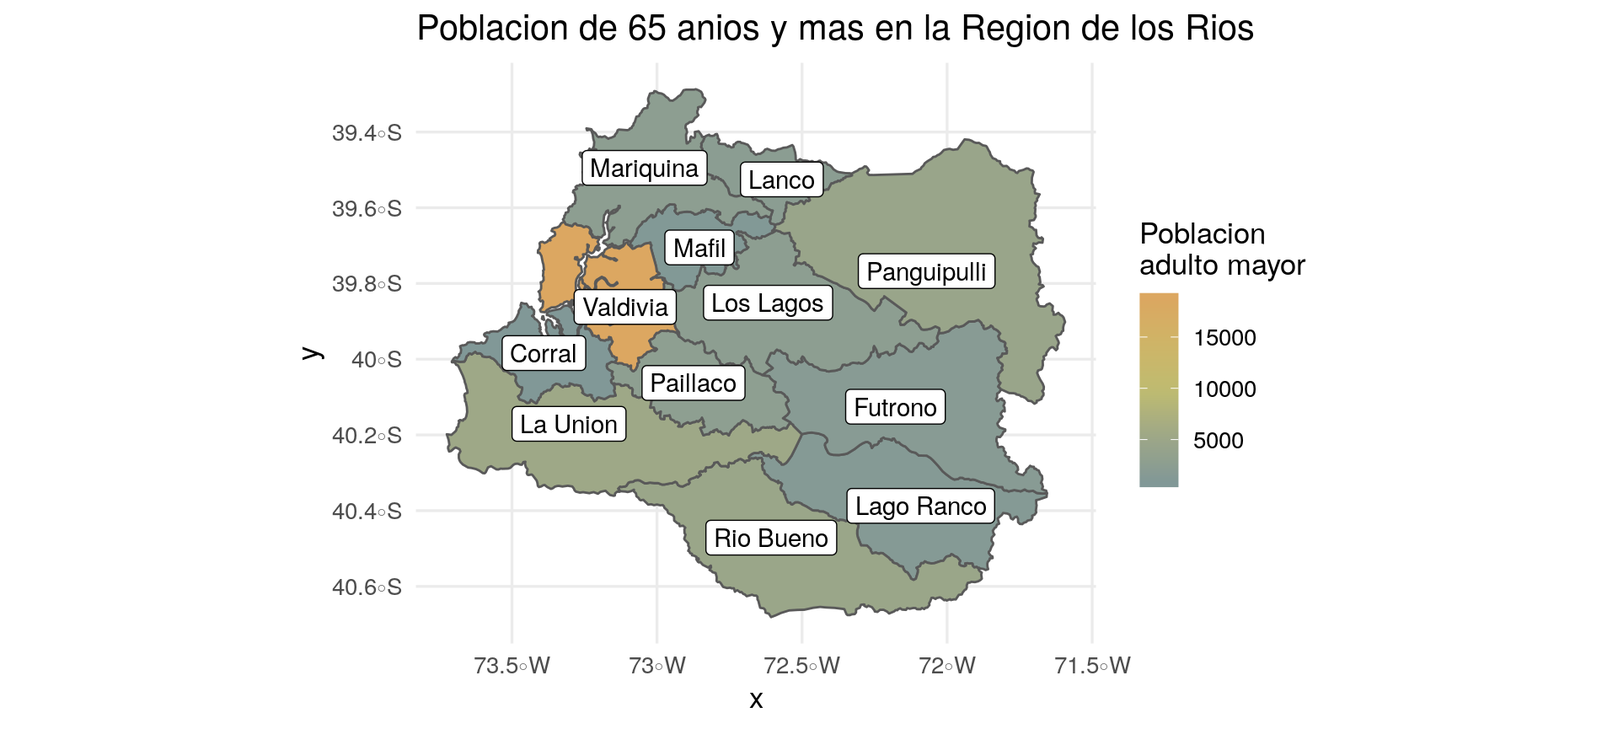
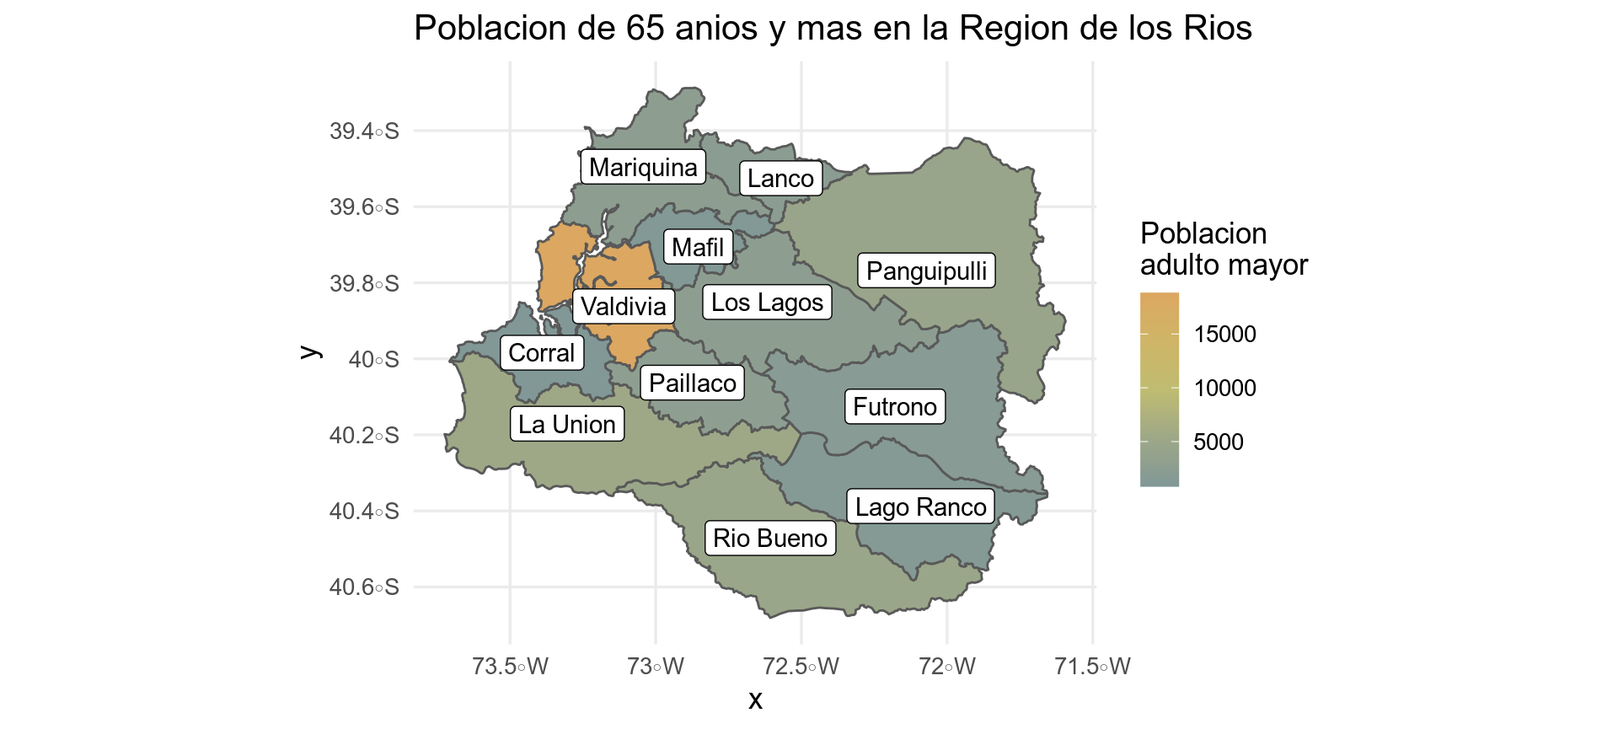
adds geometry = ... in vignette for newer ggplot2 versions

diff --git a/docs/articles/basic-usage.html b/docs/articles/basic-usage.html
@@ -31,7 +31,7 @@
       </button>
       <span class="navbar-brand">
         <a class="navbar-link" href="../index.html">chilemapas</a>
-        <span class="version label label-default" data-toggle="tooltip" data-placement="bottom" title="Released version">0.1.4</span>
+        <span class="version label label-default" data-toggle="tooltip" data-placement="bottom" title="Released version">0.1.6</span>
       </span>
     </div>
 
@@ -75,7 +75,7 @@
       <h1>Uso basico del paquete chilemapas</h1>
                         <h4 class="author">Mauricio Vargas S.</h4>
             
-            <h4 class="date">2020-01-25</h4>
+            <h4 class="date">2020-03-22</h4>
       
       
       <div class="hidden name"><code>basic-usage.Rmd</code></div>
@@ -144,12 +144,12 @@
 <a class="sourceLine" id="cb2-14" data-line-number="14"><span class="st">      </span><span class="kw"><a href="https://dplyr.tidyverse.org/reference/distinct.html">distinct</a></span>()</a>
 <a class="sourceLine" id="cb2-15" data-line-number="15">  ) <span class="op">%&gt;%</span><span class="st"> </span></a>
 <a class="sourceLine" id="cb2-16" data-line-number="16"><span class="st">  </span><span class="kw"><a href="https://dplyr.tidyverse.org/reference/join.html">left_join</a></span>(poblacion_adulto_mayor_provincias)</a>
-<a class="sourceLine" id="cb2-17" data-line-number="17"><span class="co">#&gt; Joining, by = "codigo_provincia"Joining, by = "codigo_provincia"Joining, by =</span></a>
-<a class="sourceLine" id="cb2-18" data-line-number="18"><span class="co">#&gt; "codigo_provincia"</span></a>
+<a class="sourceLine" id="cb2-17" data-line-number="17"><span class="co">#&gt; Joining, by = "codigo_provincia"</span></a>
+<a class="sourceLine" id="cb2-18" data-line-number="18"><span class="co">#&gt; Joining, by = "codigo_provincia"</span></a>
 <a class="sourceLine" id="cb2-19" data-line-number="19"></a>
 <a class="sourceLine" id="cb2-20" data-line-number="20"><span class="kw"><a href="https://ggplot2.tidyverse.org/reference/ggplot.html">ggplot</a></span>(provincias_los_rios) <span class="op">+</span><span class="st"> </span></a>
-<a class="sourceLine" id="cb2-21" data-line-number="21"><span class="st">  </span><span class="kw"><a href="https://ggplot2.tidyverse.org/reference/ggsf.html">geom_sf</a></span>(<span class="kw"><a href="https://ggplot2.tidyverse.org/reference/aes.html">aes</a></span>(<span class="dt">fill =</span> pob_adulto_mayor)) <span class="op">+</span></a>
-<a class="sourceLine" id="cb2-22" data-line-number="22"><span class="st">  </span><span class="kw"><a href="https://ggplot2.tidyverse.org/reference/ggsf.html">geom_sf_label</a></span>(<span class="kw"><a href="https://ggplot2.tidyverse.org/reference/aes.html">aes</a></span>(<span class="dt">label =</span> nombre_provincia)) <span class="op">+</span></a>
+<a class="sourceLine" id="cb2-21" data-line-number="21"><span class="st">  </span><span class="kw"><a href="https://ggplot2.tidyverse.org/reference/ggsf.html">geom_sf</a></span>(<span class="kw"><a href="https://ggplot2.tidyverse.org/reference/aes.html">aes</a></span>(<span class="dt">fill =</span> pob_adulto_mayor, <span class="dt">geometry =</span> geometry)) <span class="op">+</span></a>
+<a class="sourceLine" id="cb2-22" data-line-number="22"><span class="st">  </span><span class="kw"><a href="https://ggplot2.tidyverse.org/reference/ggsf.html">geom_sf_label</a></span>(<span class="kw"><a href="https://ggplot2.tidyverse.org/reference/aes.html">aes</a></span>(<span class="dt">label =</span> nombre_provincia, <span class="dt">geometry =</span> geometry)) <span class="op">+</span></a>
 <a class="sourceLine" id="cb2-23" data-line-number="23"><span class="st">  </span><span class="kw"><a href="https://ggplot2.tidyverse.org/reference/scale_gradient.html">scale_fill_gradientn</a></span>(<span class="dt">colours =</span> <span class="kw"><a href="https://rdrr.io/r/base/rev.html">rev</a></span>(paleta), <span class="dt">name =</span> <span class="st">"Poblacion</span><span class="ch">\n</span><span class="st">adulto mayor"</span>) <span class="op">+</span></a>
 <a class="sourceLine" id="cb2-24" data-line-number="24"><span class="st">  </span><span class="kw"><a href="https://ggplot2.tidyverse.org/reference/labs.html">labs</a></span>(<span class="dt">title =</span> <span class="st">"Poblacion de 65 anios y mas en la Region de los Rios"</span>) <span class="op">+</span></a>
 <a class="sourceLine" id="cb2-25" data-line-number="25"><span class="st">  </span><span class="kw"><a href="https://ggplot2.tidyverse.org/reference/ggtheme.html">theme_minimal</a></span>(<span class="dt">base_size =</span> <span class="dv">13</span>)</a></code></pre></div>
@@ -174,14 +174,15 @@
 <a class="sourceLine" id="cb3-14" data-line-number="14"><span class="st">      </span><span class="kw"><a href="https://dplyr.tidyverse.org/reference/distinct.html">distinct</a></span>()</a>
 <a class="sourceLine" id="cb3-15" data-line-number="15">  ) <span class="op">%&gt;%</span><span class="st"> </span></a>
 <a class="sourceLine" id="cb3-16" data-line-number="16"><span class="st">  </span><span class="kw"><a href="https://dplyr.tidyverse.org/reference/join.html">left_join</a></span>(poblacion_adulto_mayor_regiones)</a>
-<a class="sourceLine" id="cb3-17" data-line-number="17"><span class="co">#&gt; Joining, by = "codigo_region"Joining, by = "codigo_region"</span></a>
-<a class="sourceLine" id="cb3-18" data-line-number="18"></a>
-<a class="sourceLine" id="cb3-19" data-line-number="19"><span class="kw"><a href="https://ggplot2.tidyverse.org/reference/ggplot.html">ggplot</a></span>(region_los_rios) <span class="op">+</span><span class="st"> </span></a>
-<a class="sourceLine" id="cb3-20" data-line-number="20"><span class="st">  </span><span class="kw"><a href="https://ggplot2.tidyverse.org/reference/ggsf.html">geom_sf</a></span>(<span class="kw"><a href="https://ggplot2.tidyverse.org/reference/aes.html">aes</a></span>(<span class="dt">fill =</span> pob_adulto_mayor)) <span class="op">+</span></a>
-<a class="sourceLine" id="cb3-21" data-line-number="21"><span class="st">  </span><span class="kw"><a href="https://ggplot2.tidyverse.org/reference/ggsf.html">geom_sf_label</a></span>(<span class="kw"><a href="https://ggplot2.tidyverse.org/reference/aes.html">aes</a></span>(<span class="dt">label =</span> nombre_region)) <span class="op">+</span></a>
-<a class="sourceLine" id="cb3-22" data-line-number="22"><span class="st">  </span><span class="kw"><a href="https://ggplot2.tidyverse.org/reference/scale_gradient.html">scale_fill_gradientn</a></span>(<span class="dt">colours =</span> <span class="kw"><a href="https://rdrr.io/r/base/rev.html">rev</a></span>(paleta), <span class="dt">name =</span> <span class="st">"Poblacion</span><span class="ch">\n</span><span class="st">adulto mayor"</span>) <span class="op">+</span></a>
-<a class="sourceLine" id="cb3-23" data-line-number="23"><span class="st">  </span><span class="kw"><a href="https://ggplot2.tidyverse.org/reference/labs.html">labs</a></span>(<span class="dt">title =</span> <span class="st">"Poblacion de 65 anios y mas en la Region de los Rios"</span>) <span class="op">+</span></a>
-<a class="sourceLine" id="cb3-24" data-line-number="24"><span class="st">  </span><span class="kw"><a href="https://ggplot2.tidyverse.org/reference/ggtheme.html">theme_minimal</a></span>(<span class="dt">base_size =</span> <span class="dv">13</span>)</a></code></pre></div>
+<a class="sourceLine" id="cb3-17" data-line-number="17"><span class="co">#&gt; Joining, by = "codigo_region"</span></a>
+<a class="sourceLine" id="cb3-18" data-line-number="18"><span class="co">#&gt; Joining, by = "codigo_region"</span></a>
+<a class="sourceLine" id="cb3-19" data-line-number="19"></a>
+<a class="sourceLine" id="cb3-20" data-line-number="20"><span class="kw"><a href="https://ggplot2.tidyverse.org/reference/ggplot.html">ggplot</a></span>(region_los_rios) <span class="op">+</span><span class="st"> </span></a>
+<a class="sourceLine" id="cb3-21" data-line-number="21"><span class="st">  </span><span class="kw"><a href="https://ggplot2.tidyverse.org/reference/ggsf.html">geom_sf</a></span>(<span class="kw"><a href="https://ggplot2.tidyverse.org/reference/aes.html">aes</a></span>(<span class="dt">fill =</span> pob_adulto_mayor, <span class="dt">geometry =</span> geometry)) <span class="op">+</span></a>
+<a class="sourceLine" id="cb3-22" data-line-number="22"><span class="st">  </span><span class="kw"><a href="https://ggplot2.tidyverse.org/reference/ggsf.html">geom_sf_label</a></span>(<span class="kw"><a href="https://ggplot2.tidyverse.org/reference/aes.html">aes</a></span>(<span class="dt">label =</span> nombre_region, <span class="dt">geometry =</span> geometry)) <span class="op">+</span></a>
+<a class="sourceLine" id="cb3-23" data-line-number="23"><span class="st">  </span><span class="kw"><a href="https://ggplot2.tidyverse.org/reference/scale_gradient.html">scale_fill_gradientn</a></span>(<span class="dt">colours =</span> <span class="kw"><a href="https://rdrr.io/r/base/rev.html">rev</a></span>(paleta), <span class="dt">name =</span> <span class="st">"Poblacion</span><span class="ch">\n</span><span class="st">adulto mayor"</span>) <span class="op">+</span></a>
+<a class="sourceLine" id="cb3-24" data-line-number="24"><span class="st">  </span><span class="kw"><a href="https://ggplot2.tidyverse.org/reference/labs.html">labs</a></span>(<span class="dt">title =</span> <span class="st">"Poblacion de 65 anios y mas en la Region de los Rios"</span>) <span class="op">+</span></a>
+<a class="sourceLine" id="cb3-25" data-line-number="25"><span class="st">  </span><span class="kw"><a href="https://ggplot2.tidyverse.org/reference/ggtheme.html">theme_minimal</a></span>(<span class="dt">base_size =</span> <span class="dv">13</span>)</a></code></pre></div>
 <p><img src="basic-usage_files/figure-html/unnamed-chunk-3-1.png" width="960"></p>
 </div>
 <div id="graficar-zonas" class="section level2">
@@ -202,7 +203,7 @@
 <a class="sourceLine" id="cb4-12" data-line-number="12">paleta &lt;-<span class="st"> </span><span class="kw"><a href="https://rdrr.io/r/base/c.html">c</a></span>(<span class="st">"#628ca5"</span>, <span class="st">"#dca761"</span>)</a>
 <a class="sourceLine" id="cb4-13" data-line-number="13"></a>
 <a class="sourceLine" id="cb4-14" data-line-number="14"><span class="kw"><a href="https://ggplot2.tidyverse.org/reference/ggplot.html">ggplot</a></span>() <span class="op">+</span><span class="st"> </span></a>
-<a class="sourceLine" id="cb4-15" data-line-number="15"><span class="st">  </span><span class="kw"><a href="https://ggplot2.tidyverse.org/reference/ggsf.html">geom_sf</a></span>(<span class="dt">data =</span> zonas_valdivia, <span class="kw"><a href="https://ggplot2.tidyverse.org/reference/aes.html">aes</a></span>(<span class="dt">fill =</span> poblacion)) <span class="op">+</span></a>
+<a class="sourceLine" id="cb4-15" data-line-number="15"><span class="st">  </span><span class="kw"><a href="https://ggplot2.tidyverse.org/reference/ggsf.html">geom_sf</a></span>(<span class="dt">data =</span> zonas_valdivia, <span class="kw"><a href="https://ggplot2.tidyverse.org/reference/aes.html">aes</a></span>(<span class="dt">fill =</span> poblacion, <span class="dt">geometry =</span> geometry)) <span class="op">+</span></a>
 <a class="sourceLine" id="cb4-16" data-line-number="16"><span class="st">  </span><span class="kw"><a href="https://ggplot2.tidyverse.org/reference/ggsf.html">geom_sf</a></span>(<span class="dt">data =</span> <span class="kw"><a href="https://dplyr.tidyverse.org/reference/filter.html">filter</a></span>(comunas_los_rios, codigo_comuna <span class="op">==</span><span class="st"> "14101"</span>),</a>
 <a class="sourceLine" id="cb4-17" data-line-number="17">          <span class="dt">colour =</span> <span class="st">"#2A2B75"</span>, <span class="dt">fill =</span> <span class="ot">NA</span>) <span class="op">+</span></a>
 <a class="sourceLine" id="cb4-18" data-line-number="18"><span class="st">  </span><span class="kw"><a href="https://ggplot2.tidyverse.org/reference/lims.html">ylim</a></span>(<span class="op">-</span><span class="fl">39.9</span>, <span class="fl">-39.78</span>) <span class="op">+</span></a>

diff --git a/docs/reference/generar_circunscripciones.html b/docs/reference/generar_circunscripciones.html
@@ -70,7 +70,7 @@ del mapa comunal para no recargar el volumen de datos del paquete." />
       </button>
       <span class="navbar-brand">
         <a class="navbar-link" href="../index.html">chilemapas</a>
-        <span class="version label label-default" data-toggle="tooltip" data-placement="bottom" title="Released version">0.1.4</span>
+        <span class="version label label-default" data-toggle="tooltip" data-placement="bottom" title="Released version">0.1.6</span>
       </span>
     </div>
 
@@ -139,24 +139,24 @@ del mapa comunal para no recargar el volumen de datos del paquete.</p>
     <p>Un objeto de clase sf y data.frame.</p>
 
     <h2 class="hasAnchor" id="examples"><a class="anchor" href="#examples"></a>Examples</h2>
-    <pre class="examples"><div class='input'><span class='fu'>generar_circunscripciones</span>()</div><div class='output co'>#&gt; <span class='message'>Joining, by = "codigo_comuna"</span></div><div class='output co'>#&gt; <span class='message'>Joining, by = "codigo_circunscripcion"</span></div><div class='output co'>#&gt; Simple feature collection with 15 features and 2 fields
-#&gt; geometry type:  MULTIPOLYGON
-#&gt; dimension:      XY
-#&gt; bbox:           xmin: -109.4499 ymin: -56.52511 xmax: -66.41617 ymax: -17.49778
-#&gt; epsg (SRID):    NA
-#&gt; proj4string:    +proj=longlat +ellps=GRS80 +no_defs
-#&gt; First 10 features:
-#&gt;    codigo_circunscripcion codigo_region                       geometry
-#&gt; 1                      02            01 MULTIPOLYGON (((-68.86081 -...
-#&gt; 2                      03            02 MULTIPOLYGON (((-68.98863 -...
-#&gt; 3                      04            03 MULTIPOLYGON (((-70.68641 -...
-#&gt; 4                      05            04 MULTIPOLYGON (((-71.66962 -...
-#&gt; 5                      06            05 MULTIPOLYGON (((-71.67929 -...
-#&gt; 6                      08            06 MULTIPOLYGON (((-71.1344 -3...
-#&gt; 7                      09            07 MULTIPOLYGON (((-72.1032 -3...
-#&gt; 8                      11            09 MULTIPOLYGON (((-73.35579 -...
-#&gt; 9                      13            10 MULTIPOLYGON (((-73.6175 -4...
-#&gt; 10                     14            11 MULTIPOLYGON (((-74.34857 -...</div></pre>
+    <pre class="examples"><div class='input'><span class='fu'>generar_circunscripciones</span>()</div><div class='output co'>#&gt; <span class='message'>Joining, by = "codigo_circunscripcion"</span></div><div class='output co'>#&gt; <span style='color: #555555;'># A tibble: 15 x 3</span><span>
+#&gt;    codigo_circunscrip…                                    geometry codigo_region
+#&gt;    </span><span style='color: #555555;font-style: italic;'>&lt;chr&gt;</span><span>                                        </span><span style='color: #555555;font-style: italic;'>&lt;MULTIPOLYGON [°]&gt;</span><span> </span><span style='color: #555555;font-style: italic;'>&lt;chr&gt;</span><span>        
+#&gt; </span><span style='color: #555555;'> 1</span><span> 02                  (((-69.93023 -21.4246, -69.93211 -21.42485… 01           
+#&gt; </span><span style='color: #555555;'> 2</span><span> 03                  (((-70.60654 -23.43054, -70.60175 -23.4351… 02           
+#&gt; </span><span style='color: #555555;'> 3</span><span> 04                  (((-68.36698 -26.79685, -68.36379 -26.8010… 03           
+#&gt; </span><span style='color: #555555;'> 4</span><span> 05                  (((-71.28791 -29.9416, -71.28132 -29.93136… 04           
+#&gt; </span><span style='color: #555555;'> 5</span><span> 06                  (((-71.70008 -33.1555, -71.71085 -33.14618… 05           
+#&gt; </span><span style='color: #555555;'> 6</span><span> 08                  (((-70.91453 -34.14454, -70.91686 -34.1409… 06           
+#&gt; </span><span style='color: #555555;'> 7</span><span> 09                  (((-72.61881 -35.56136, -72.61272 -35.5529… 07           
+#&gt; </span><span style='color: #555555;'> 8</span><span> 11                  (((-73.35579 -38.73982, -73.35826 -38.7262… 09           
+#&gt; </span><span style='color: #555555;'> 9</span><span> 13                  (((-72.99 -41.55301, -72.98086 -41.55318, … 10           
+#&gt; </span><span style='color: #555555;'>10</span><span> 14                  (((-72.06159 -44.83968, -72.06635 -44.8431… 11           
+#&gt; </span><span style='color: #555555;'>11</span><span> 15                  (((-72.1423 -54.4747, -72.1399 -54.47724, … 12           
+#&gt; </span><span style='color: #555555;'>12</span><span> 07                  (((-70.37256 -33.10578, -70.36695 -33.1070… 13           
+#&gt; </span><span style='color: #555555;'>13</span><span> 12                  (((-73.2668 -39.88605, -73.26215 -39.88671… 14           
+#&gt; </span><span style='color: #555555;'>14</span><span> 01                  (((-70.35079 -18.8362, -70.34977 -18.83428… 15           
+#&gt; </span><span style='color: #555555;'>15</span><span> 10                  (((-73.05136 -36.85569, -73.06061 -36.8389… 16           </div></span></pre>
   </div>
   <div class="col-md-3 hidden-xs hidden-sm" id="sidebar">
     <h2>Contents</h2>

diff --git a/docs/reference/generar_distritos.html b/docs/reference/generar_distritos.html
@@ -70,7 +70,7 @@ del mapa comunal para no recargar el volumen de datos del paquete." />
       </button>
       <span class="navbar-brand">
         <a class="navbar-link" href="../index.html">chilemapas</a>
-        <span class="version label label-default" data-toggle="tooltip" data-placement="bottom" title="Released version">0.1.4</span>
+        <span class="version label label-default" data-toggle="tooltip" data-placement="bottom" title="Released version">0.1.6</span>
       </span>
     </div>
 
@@ -139,24 +139,20 @@ del mapa comunal para no recargar el volumen de datos del paquete.</p>
     <p>Un objeto de clase sf y data.frame.</p>
 
     <h2 class="hasAnchor" id="examples"><a class="anchor" href="#examples"></a>Examples</h2>
-    <pre class="examples"><div class='input'><span class='fu'>generar_distritos</span>()</div><div class='output co'>#&gt; <span class='message'>Joining, by = "codigo_comuna"</span></div><div class='output co'>#&gt; <span class='message'>Joining, by = "codigo_distrito"</span></div><div class='output co'>#&gt; Simple feature collection with 28 features and 2 fields
-#&gt; geometry type:  MULTIPOLYGON
-#&gt; dimension:      XY
-#&gt; bbox:           xmin: -109.4499 ymin: -56.52511 xmax: -66.41617 ymax: -17.49778
-#&gt; epsg (SRID):    NA
-#&gt; proj4string:    +proj=longlat +ellps=GRS80 +no_defs
-#&gt; First 10 features:
-#&gt;    codigo_distrito codigo_region                       geometry
-#&gt; 1               02            01 MULTIPOLYGON (((-68.86081 -...
-#&gt; 2               03            02 MULTIPOLYGON (((-68.98863 -...
-#&gt; 3               04            03 MULTIPOLYGON (((-70.68641 -...
-#&gt; 4               05            04 MULTIPOLYGON (((-71.66962 -...
-#&gt; 5               07            05 MULTIPOLYGON (((-71.67929 -...
-#&gt; 6               06            05 MULTIPOLYGON (((-71.01308 -...
-#&gt; 7               16            06 MULTIPOLYGON (((-71.1344 -3...
-#&gt; 8               15            06 MULTIPOLYGON (((-71.06711 -...
-#&gt; 9               18            07 MULTIPOLYGON (((-72.1032 -3...
-#&gt; 10              17            07 MULTIPOLYGON (((-72.10298 -...</div></pre>
+    <pre class="examples"><div class='input'><span class='fu'>generar_distritos</span>()</div><div class='output co'>#&gt; <span class='message'>Joining, by = "codigo_distrito"</span></div><div class='output co'>#&gt; <span style='color: #555555;'># A tibble: 28 x 3</span><span>
+#&gt;    codigo_distrito                                        geometry codigo_region
+#&gt;    </span><span style='color: #555555;font-style: italic;'>&lt;chr&gt;</span><span>                                        </span><span style='color: #555555;font-style: italic;'>&lt;MULTIPOLYGON [°]&gt;</span><span> </span><span style='color: #555555;font-style: italic;'>&lt;chr&gt;</span><span>        
+#&gt; </span><span style='color: #555555;'> 1</span><span> 02              (((-69.93023 -21.4246, -69.93211 -21.42485, -6… 01           
+#&gt; </span><span style='color: #555555;'> 2</span><span> 03              (((-70.60654 -23.43054, -70.60175 -23.43515, -… 02           
+#&gt; </span><span style='color: #555555;'> 3</span><span> 04              (((-68.36698 -26.79685, -68.36379 -26.80107, -… 03           
+#&gt; </span><span style='color: #555555;'> 4</span><span> 05              (((-71.28791 -29.9416, -71.28132 -29.93136, -7… 04           
+#&gt; </span><span style='color: #555555;'> 5</span><span> 07              (((-71.49302 -33.10398, -71.48609 -33.10908, -… 05           
+#&gt; </span><span style='color: #555555;'> 6</span><span> 06              (((-71.49074 -32.77034, -71.48661 -32.76287, -… 05           
+#&gt; </span><span style='color: #555555;'> 7</span><span> 15              (((-70.91453 -34.14454, -70.91686 -34.14091, -… 06           
+#&gt; </span><span style='color: #555555;'> 8</span><span> 16              (((-71.07191 -34.18389, -71.07153 -34.18925, -… 06           
+#&gt; </span><span style='color: #555555;'> 9</span><span> 17              (((-72.10298 -35.44028, -72.10745 -35.43902, -… 07           
+#&gt; </span><span style='color: #555555;'>10</span><span> 18              (((-72.1032 -36.12348, -72.10308 -36.13219, -7… 07           
+#&gt; </span><span style='color: #555555;'># … with 18 more rows</span><span></div></span></pre>
   </div>
   <div class="col-md-3 hidden-xs hidden-sm" id="sidebar">
     <h2>Contents</h2>

diff --git a/docs/reference/generar_provincias.html b/docs/reference/generar_provincias.html
@@ -70,7 +70,7 @@ del mapa comunal para no recargar el volumen de datos del paquete." />
       </button>
       <span class="navbar-brand">
         <a class="navbar-link" href="../index.html">chilemapas</a>
-        <span class="version label label-default" data-toggle="tooltip" data-placement="bottom" title="Released version">0.1.4</span>
+        <span class="version label label-default" data-toggle="tooltip" data-placement="bottom" title="Released version">0.1.6</span>
       </span>
     </div>
 
@@ -139,24 +139,20 @@ del mapa comunal para no recargar el volumen de datos del paquete.</p>
     <p>Un objeto de clase sf y data.frame.</p>
 
     <h2 class="hasAnchor" id="examples"><a class="anchor" href="#examples"></a>Examples</h2>
-    <pre class="examples"><div class='input'><span class='fu'>generar_provincias</span>()</div><div class='output co'>#&gt; <span class='message'>Joining, by = "codigo_provincia"</span></div><div class='output co'>#&gt; Simple feature collection with 346 features and 2 fields
-#&gt; geometry type:  MULTIPOLYGON
-#&gt; dimension:      XY
-#&gt; bbox:           xmin: -109.4499 ymin: -56.52511 xmax: -66.41617 ymax: -17.49778
-#&gt; epsg (SRID):    NA
-#&gt; proj4string:    +proj=longlat +ellps=GRS80 +no_defs
-#&gt; First 10 features:
-#&gt;    codigo_provincia codigo_region                       geometry
-#&gt; 1               014            01 MULTIPOLYGON (((-68.86081 -...
-#&gt; 2               014            01 MULTIPOLYGON (((-68.86081 -...
-#&gt; 3               014            01 MULTIPOLYGON (((-68.86081 -...
-#&gt; 4               014            01 MULTIPOLYGON (((-68.86081 -...
-#&gt; 5               014            01 MULTIPOLYGON (((-68.86081 -...
-#&gt; 6               011            01 MULTIPOLYGON (((-70.09894 -...
-#&gt; 7               011            01 MULTIPOLYGON (((-70.09894 -...
-#&gt; 8               021            02 MULTIPOLYGON (((-68.98863 -...
-#&gt; 9               021            02 MULTIPOLYGON (((-68.98863 -...
-#&gt; 10              021            02 MULTIPOLYGON (((-68.98863 -...</div></pre>
+    <pre class="examples"><div class='input'><span class='fu'>generar_provincias</span>()</div><div class='output co'>#&gt; <span style='color: #555555;'># A tibble: 346 x 3</span><span>
+#&gt;    codigo_provincia                                       geometry codigo_region
+#&gt;    </span><span style='color: #555555;font-style: italic;'>&lt;chr&gt;</span><span>                                        </span><span style='color: #555555;font-style: italic;'>&lt;MULTIPOLYGON [°]&gt;</span><span> </span><span style='color: #555555;font-style: italic;'>&lt;chr&gt;</span><span>        
+#&gt; </span><span style='color: #555555;'> 1</span><span> 014              (((-68.86081 -21.28512, -68.92172 -21.30035, … 01           
+#&gt; </span><span style='color: #555555;'> 2</span><span> 014              (((-68.86081 -21.28512, -68.92172 -21.30035, … 01           
+#&gt; </span><span style='color: #555555;'> 3</span><span> 014              (((-68.86081 -21.28512, -68.92172 -21.30035, … 01           
+#&gt; </span><span style='color: #555555;'> 4</span><span> 014              (((-68.86081 -21.28512, -68.92172 -21.30035, … 01           
+#&gt; </span><span style='color: #555555;'> 5</span><span> 014              (((-68.86081 -21.28512, -68.92172 -21.30035, … 01           
+#&gt; </span><span style='color: #555555;'> 6</span><span> 011              (((-70.09894 -20.08504, -70.01515 -20.07019, … 01           
+#&gt; </span><span style='color: #555555;'> 7</span><span> 011              (((-70.09894 -20.08504, -70.01515 -20.07019, … 01           
+#&gt; </span><span style='color: #555555;'> 8</span><span> 021              (((-68.98863 -25.38016, -68.98731 -25.38411, … 02           
+#&gt; </span><span style='color: #555555;'> 9</span><span> 021              (((-68.98863 -25.38016, -68.98731 -25.38411, … 02           
+#&gt; </span><span style='color: #555555;'>10</span><span> 021              (((-68.98863 -25.38016, -68.98731 -25.38411, … 02           
+#&gt; </span><span style='color: #555555;'># … with 336 more rows</span><span></div></span></pre>
   </div>
   <div class="col-md-3 hidden-xs hidden-sm" id="sidebar">
     <h2>Contents</h2>

diff --git a/docs/reference/generar_servicios_salud.html b/docs/reference/generar_servicios_salud.html
@@ -70,7 +70,7 @@ del mapa comunal para no recargar el volumen de datos del paquete." />
       </button>
       <span class="navbar-brand">
         <a class="navbar-link" href="../index.html">chilemapas</a>
-        <span class="version label label-default" data-toggle="tooltip" data-placement="bottom" title="Released version">0.1.4</span>
+        <span class="version label label-default" data-toggle="tooltip" data-placement="bottom" title="Released version">0.1.6</span>
       </span>
     </div>
 
@@ -139,24 +139,20 @@ del mapa comunal para no recargar el volumen de datos del paquete.</p>
     <p>Un objeto de clase sf y data.frame.</p>
 
     <h2 class="hasAnchor" id="examples"><a class="anchor" href="#examples"></a>Examples</h2>
-    <pre class="examples"><div class='input'><span class='fu'>generar_servicios_salud</span>()</div><div class='output co'>#&gt; <span class='message'>Joining, by = "codigo_comuna"</span></div><div class='output co'>#&gt; Simple feature collection with 29 features and 1 field
-#&gt; geometry type:  MULTIPOLYGON
-#&gt; dimension:      XY
-#&gt; bbox:           xmin: -109.4499 ymin: -56.52511 xmax: -66.41617 ymax: -17.49778
-#&gt; epsg (SRID):    NA
-#&gt; proj4string:    +proj=longlat +ellps=GRS80 +no_defs
-#&gt; First 10 features:
-#&gt;    codigo_servicio_salud                       geometry
-#&gt; 1                     02 MULTIPOLYGON (((-68.86081 -...
-#&gt; 2                     03 MULTIPOLYGON (((-68.98863 -...
-#&gt; 3                     04 MULTIPOLYGON (((-70.68641 -...
-#&gt; 4                     05 MULTIPOLYGON (((-71.66962 -...
-#&gt; 5                     06 MULTIPOLYGON (((-71.67929 -...
-#&gt; 6                     07 MULTIPOLYGON (((-71.04598 -...
-#&gt; 7                     08 MULTIPOLYGON (((-70.23292 -...
-#&gt; 8                     15 MULTIPOLYGON (((-71.1344 -3...
-#&gt; 9                     16 MULTIPOLYGON (((-72.1032 -3...
-#&gt; 10                    20 MULTIPOLYGON (((-71.41259 -...</div></pre>
+    <pre class="examples"><div class='input'><span class='fu'>generar_servicios_salud</span>()</div><div class='output co'>#&gt; <span style='color: #555555;'># A tibble: 29 x 2</span><span>
+#&gt;    codigo_servicio_sal…                                                 geometry
+#&gt;    </span><span style='color: #555555;font-style: italic;'>&lt;chr&gt;</span><span>                                                      </span><span style='color: #555555;font-style: italic;'>&lt;MULTIPOLYGON [°]&gt;</span><span>
+#&gt; </span><span style='color: #555555;'> 1</span><span> 02                   (((-69.93023 -21.4246, -69.93211 -21.42485, -69.93423 -…
+#&gt; </span><span style='color: #555555;'> 2</span><span> 03                   (((-70.60654 -23.43054, -70.60175 -23.43515, -70.60133 …
+#&gt; </span><span style='color: #555555;'> 3</span><span> 04                   (((-68.36698 -26.79685, -68.36379 -26.80107, -68.34811 …
+#&gt; </span><span style='color: #555555;'> 4</span><span> 05                   (((-71.28791 -29.9416, -71.28132 -29.93136, -71.27753 -…
+#&gt; </span><span style='color: #555555;'> 5</span><span> 06                   (((-71.58724 -33.0285, -71.5819 -33.03284, -71.58207 -3…
+#&gt; </span><span style='color: #555555;'> 6</span><span> 07                   (((-71.55077 -32.94576, -71.5534 -32.93904, -71.55051 -…
+#&gt; </span><span style='color: #555555;'> 7</span><span> 08                   (((-70.1475 -32.72665, -70.13743 -32.73199, -70.13655 -…
+#&gt; </span><span style='color: #555555;'> 8</span><span> 15                   (((-70.91453 -34.14454, -70.91686 -34.14091, -70.92929 …
+#&gt; </span><span style='color: #555555;'> 9</span><span> 16                   (((-72.61881 -35.56136, -72.61272 -35.5529, -72.60101 -…
+#&gt; </span><span style='color: #555555;'>10</span><span> 18                   (((-73.05136 -36.85569, -73.06061 -36.83893, -73.07138 …
+#&gt; </span><span style='color: #555555;'># … with 19 more rows</span><span></div></span></pre>
   </div>
   <div class="col-md-3 hidden-xs hidden-sm" id="sidebar">
     <h2>Contents</h2>

diff --git a/docs/reference/generar_regiones.html b/docs/reference/generar_regiones.html
@@ -70,7 +70,7 @@ del mapa comunal para no recargar el volumen de datos del paquete." />
       </button>
       <span class="navbar-brand">
         <a class="navbar-link" href="../index.html">chilemapas</a>
-        <span class="version label label-default" data-toggle="tooltip" data-placement="bottom" title="Released version">0.1.4</span>
+        <span class="version label label-default" data-toggle="tooltip" data-placement="bottom" title="Released version">0.1.6</span>
       </span>
     </div>
 

diff --git a/docs/reference/mapa_zonas.html b/docs/reference/mapa_zonas.html
@@ -70,7 +70,7 @@ administrativas (comuna, provincia y region) a las que pertenecen." />
       </button>
       <span class="navbar-brand">
         <a class="navbar-link" href="../index.html">chilemapas</a>
-        <span class="version label label-default" data-toggle="tooltip" data-placement="bottom" title="Released version">0.1.4</span>
+        <span class="version label label-default" data-toggle="tooltip" data-placement="bottom" title="Released version">0.1.6</span>
       </span>
     </div>
 

diff --git a/docs/reference/mapa_comunas.html b/docs/reference/mapa_comunas.html
@@ -70,7 +70,7 @@ administrativas (provincia y region) a las que pertenecen." />
       </button>
       <span class="navbar-brand">
         <a class="navbar-link" href="../index.html">chilemapas</a>
-        <span class="version label label-default" data-toggle="tooltip" data-placement="bottom" title="Released version">0.1.4</span>
+        <span class="version label label-default" data-toggle="tooltip" data-placement="bottom" title="Released version">0.1.6</span>
       </span>
     </div>
 

diff --git a/docs/reference/divisiones_electorales.html b/docs/reference/divisiones_electorales.html
@@ -72,7 +72,7 @@ segun la legislacion vigente." />
       </button>
       <span class="navbar-brand">
         <a class="navbar-link" href="../index.html">chilemapas</a>
-        <span class="version label label-default" data-toggle="tooltip" data-placement="bottom" title="Released version">0.1.4</span>
+        <span class="version label label-default" data-toggle="tooltip" data-placement="bottom" title="Released version">0.1.6</span>
       </span>
     </div>
 

diff --git a/docs/reference/divisiones_salud.html b/docs/reference/divisiones_salud.html
@@ -70,7 +70,7 @@ segun la legislacion vigente." />
       </button>
       <span class="navbar-brand">
         <a class="navbar-link" href="../index.html">chilemapas</a>
-        <span class="version label label-default" data-toggle="tooltip" data-placement="bottom" title="Released version">0.1.4</span>
+        <span class="version label label-default" data-toggle="tooltip" data-placement="bottom" title="Released version">0.1.6</span>
       </span>
     </div>
 

diff --git a/docs/reference/codigos_territoriales.html b/docs/reference/codigos_territoriales.html
@@ -71,7 +71,7 @@ codificacion." />
       </button>
       <span class="navbar-brand">
         <a class="navbar-link" href="../index.html">chilemapas</a>
-        <span class="version label label-default" data-toggle="tooltip" data-placement="bottom" title="Released version">0.1.4</span>
+        <span class="version label label-default" data-toggle="tooltip" data-placement="bottom" title="Released version">0.1.6</span>
       </span>
     </div>
 

diff --git a/docs/articles/index.html b/docs/articles/index.html
@@ -67,7 +67,7 @@
       </button>
       <span class="navbar-brand">
         <a class="navbar-link" href="../index.html">chilemapas</a>
-        <span class="version label label-default" data-toggle="tooltip" data-placement="bottom" title="Released version">0.1.4</span>
+        <span class="version label label-default" data-toggle="tooltip" data-placement="bottom" title="Released version">0.1.6</span>
       </span>
     </div>
 
